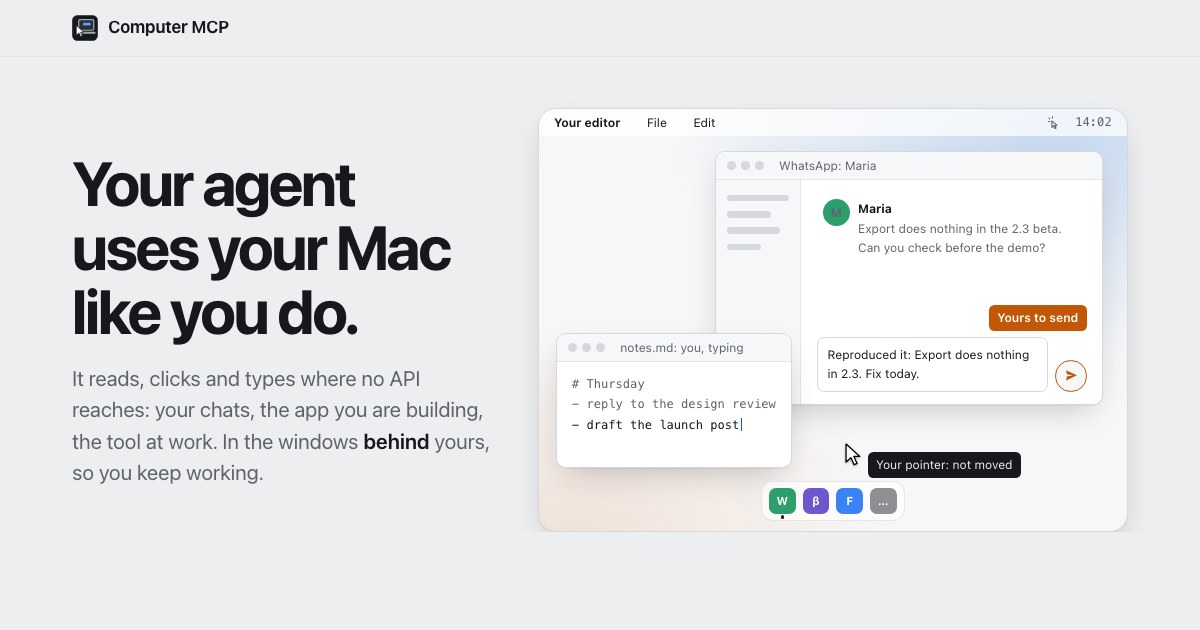
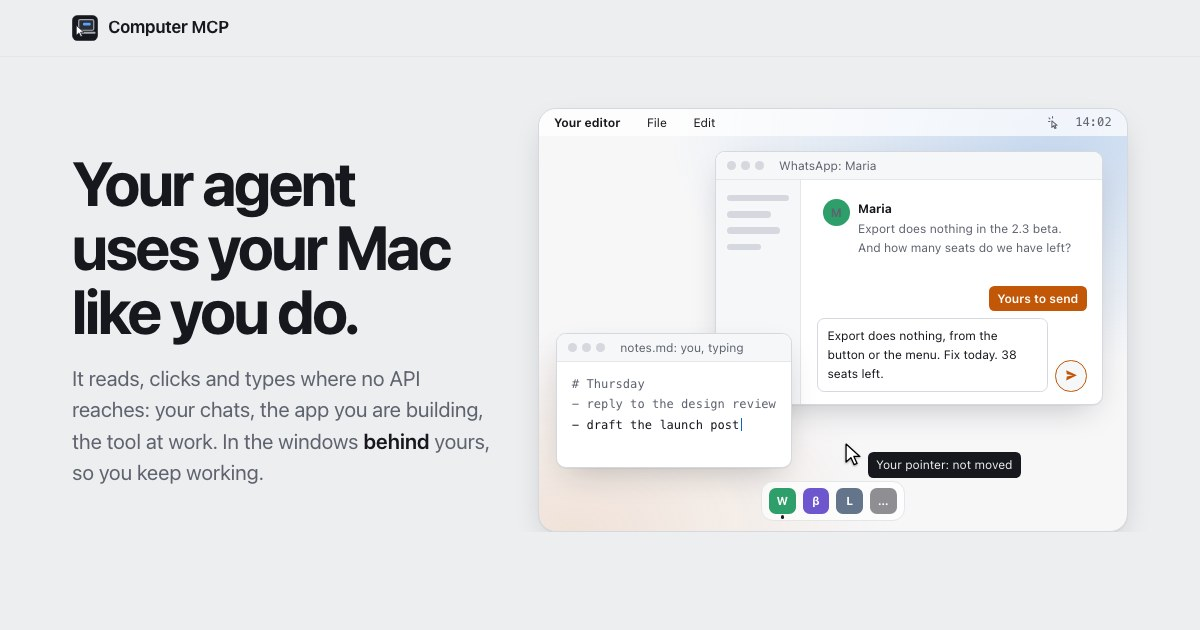
side: filmen viser nu alle fire use cases (32 s)
Gustav 2/10: brug flere af vores use cases i videoen.

Filmen går fra to til fire scener og 24 til 32 sekunder: Marias to
spørgsmål i WhatsApp, Export-knappen i din egen app, den samme handling
via appens menu (menus læser, menu vælger), og antal pladser tilbage i
et internt administrationsværktøj uden API. Svaret lægges som kladde i
WhatsApp, afsendelsen er din. Loggen har seks linjer.

Delingsbilledet er lavet om fra den nye hero. Sidens tjek er grønne.

Changed region(s): [[0.6783, 0.4524, 0.925, 0.6032], [0.7092, 0.3619, 0.8942, 0.4222], [0.6783, 0.754, 0.74, 0.8143]]

diff --git a/docs/index.html b/docs/index.html
@@ -36,7 +36,7 @@
   --sans:system-ui,-apple-system,BlinkMacSystemFont,"Segoe UI",Helvetica,Arial,sans-serif;
   --mono:ui-monospace,"SF Mono",SFMono-Regular,Menlo,Consolas,"Liberation Mono",monospace;
   --ease-out:cubic-bezier(.23,1,.32,1);
-  --film:24s;
+  --film:32s;
   color-scheme:light;
 }
 @media (prefers-color-scheme:dark){
@@ -104,7 +104,7 @@ p,li,dd{text-wrap:pretty}
 .ghost svg{width:16px;height:16px;fill:currentColor}
 .small{font-size:15px;color:var(--muted);margin:16px 0 0}
 
-/* The film: a bug report in WhatsApp, checked in your own app, answered as a draft. All behind your window */
+/* The film: two questions in WhatsApp, answered from your own app, its menu and the tool at work. All behind your window */
 .film{margin:0;container-type:inline-size}
 #pause{position:absolute;opacity:0;pointer-events:none}
 .desk{position:relative;aspect-ratio:16/11.5;border-radius:18px;overflow:hidden;
@@ -151,7 +151,23 @@ p,li,dd{text-wrap:pretty}
 .doc b{display:block;color:var(--ink);font-weight:600}
 .doc i{display:block;height:.5em;border-radius:.3em;background:var(--rule-soft);margin-top:.65em}
 .doc i:nth-of-type(2){width:80%}.doc i:nth-of-type(3){width:60%}
-.note{display:inline-flex;margin-top:.9em;padding:.35em .75em;border-radius:.5em;background:var(--ink);color:var(--desk)}
+.notes{display:flex;flex-direction:column;align-items:flex-start;gap:.45em;margin-top:.9em}
+.note{display:inline-flex;padding:.3em .75em;border-radius:.5em;background:var(--ink);color:var(--desk)}
+/* What the agent reads from the menu bar: nothing opens on your screen */
+.menus{position:absolute;left:47%;top:23%;width:47%;z-index:4;background:var(--surface);border:1px solid var(--rule);border-radius:.7em;
+  box-shadow:0 18px 40px -14px rgba(0,0,0,.45);padding:.45em}
+.menus .h{margin:0;padding:.2em .5em .45em;font-family:var(--mono);font-size:.88em;color:var(--muted)}
+.menus p{margin:0;display:flex;justify-content:space-between;gap:1em;padding:.3em .5em;border-radius:.4em;color:var(--muted);white-space:nowrap}
+.menus p span:last-child{opacity:.7}
+/* The tool at work */
+.tabs{display:flex;gap:.3em;margin-bottom:.8em}
+.tabs span{padding:.25em .7em;border-radius:.3em;border:1px solid var(--rule);color:var(--muted);background:var(--surface-2)}
+.tabs .on{color:var(--ink);background:var(--surface);font-weight:600}
+.old{border:1px solid var(--rule);border-radius:.3em;overflow:hidden}
+.old .oh{margin:0;background:var(--surface-2);padding:.4em .7em;font-weight:600;color:var(--ink);border-bottom:1px solid var(--rule)}
+.old p{margin:0;display:flex;justify-content:space-between;padding:.42em .7em;border-bottom:1px solid var(--rule-soft);color:var(--muted)}
+.old p:last-child{border-bottom:0}
+.old p b{font-family:var(--mono);color:var(--ink);font-weight:600}
 /* the rest */
 .ptr{position:absolute;left:52%;top:79%;z-index:3;display:flex;align-items:flex-start;gap:.5em}
 .ptr svg{width:1.4em;height:auto;filter:drop-shadow(0 1px 1px rgba(0,0,0,.35))}
@@ -160,7 +176,7 @@ p,li,dd{text-wrap:pretty}
   background:color-mix(in srgb,var(--surface) 70%,transparent);border:1px solid var(--rule-soft)}
 .dock span{position:relative;width:2.3em;height:2.3em;border-radius:.6em;display:grid;place-items:center;font-weight:700;color:#fff;font-size:.95em}
 .dock span::after{content:"";position:absolute;bottom:-.4em;width:.3em;height:.3em;border-radius:50%;background:var(--ink);opacity:0}
-.d1{background:#2E9E6A}.d2{background:#6E56CF}.d3{background:#3B82F6}.d4{background:#8E8E93}
+.d1{background:#2E9E6A}.d2{background:#6E56CF}.d3{background:#64748B}.d4{background:#8E8E93}
 .logp{position:absolute;left:3.5%;right:3.5%;bottom:4%;z-index:5;background:var(--surface);border:1px solid var(--rule);
   border-radius:.8em;box-shadow:var(--win-shadow);padding:.8em 1em;font-family:var(--mono);font-size:.9em;color:var(--muted)}
 .logp p{margin:0;white-space:pre;overflow:hidden;text-overflow:ellipsis;line-height:1.65}
@@ -178,55 +194,61 @@ p,li,dd{text-wrap:pretty}
 .progress i{display:block;height:100%;background:var(--muted);transform-origin:left}
 
 /* Static frame (reduced motion): the reply waits in WhatsApp as a draft, sending is yours */
-.s2,.t2,.note,.logp,.ph{opacity:0}
+.s2,.s3,.t2,.t3,.note,.menus,.logp,.ph{opacity:0}
 .s1,.draft,.yours{opacity:1}
 .send{border-color:var(--orange);color:var(--orange)}
-.cap span.k4{opacity:1;position:static}
+.cap span.k5{opacity:1;position:static}
 .dock .d1::after{opacity:1}
 
 @media (prefers-reduced-motion:no-preference){
   .desk *, .cap span, .progress i, .dock span::after{animation-duration:var(--film);animation-iteration-count:infinite;animation-timing-function:linear;animation-fill-mode:both}
-  .t1,.s1{animation-name:wa} .t2,.s2{animation-name:app}
+  .t1,.s1{animation-name:wa} .t2,.s2{animation-name:app} .t3,.s3{animation-name:lic}
   .m1{animation-name:seen}
-  .x{animation-name:hunt} .flash{animation-name:flash} .note{animation-name:note}
+  .x{animation-name:hunt} .flash{animation-name:flash} .n1{animation-name:n1} .n2{animation-name:n2}
+  .menus{animation-name:menus} .mx{animation-name:pick} .seat{animation-name:seat}
   .ph{animation-name:ph} .draft{animation-name:draft} .send{animation-name:mine} .yours{animation-name:yours}
   .logp{animation-name:logp}
-  .l1{animation-name:l1}.l2{animation-name:l2}.l3{animation-name:l3}.l4{animation-name:l4}.l5{animation-name:l5}
-  .dock .d1::after{animation-name:dwa}.dock .d2::after{animation-name:dapp}
+  .l1{animation-name:l1}.l2{animation-name:l2}.l3{animation-name:l3}.l4{animation-name:l4}.l5{animation-name:l5}.l6{animation-name:l6}
+  .dock .d1::after{animation-name:wa}.dock .d2::after{animation-name:app}.dock .d3::after{animation-name:lic}
   .caret{animation-name:blink;animation-timing-function:steps(2,start);animation-duration:1s}
-  .cap span.k4{position:absolute}
-  .cap .k1{animation-name:k1}.cap .k2{animation-name:k2}.cap .k3{animation-name:k3}.cap .k4{animation-name:k4}.cap .k5{animation-name:k5}
+  .cap span.k5{position:absolute}
+  .cap .k1{animation-name:k1}.cap .k2{animation-name:k2}.cap .k3{animation-name:k3}.cap .k4{animation-name:k4}.cap .k5{animation-name:k5}.cap .k6{animation-name:k6}
   .progress i{animation-name:bar}
   #pause:checked ~ .desk *, #pause:checked ~ .desk .dock span::after, #pause:checked ~ .under .cap span, #pause:checked ~ .progress i{animation-play-state:paused}
 }
 @media (prefers-reduced-motion:reduce){ .ctl,.progress{display:none} .under{grid-template-columns:1fr} }
 
-/* One 24-second timeline, 1 s = 4.17%:
-   1 read WhatsApp 0-20  2 press Export in your app 20-40  3 look again 40-58  4 the draft 58-84  5 the log 84-100 */
-@keyframes wa{0%{opacity:0}1.5%,19%{opacity:1}20.5%,57%{opacity:0}58.5%,97%{opacity:1}99%,100%{opacity:0}}
-@keyframes app{0%,19%{opacity:0}20.5%,57%{opacity:1}58.5%,100%{opacity:0}}
-@keyframes seen{0%,5%{box-shadow:none;background:transparent}7%,18%{box-shadow:inset 0 0 0 .14em var(--blue);background:color-mix(in srgb,var(--blue) 8%,transparent)}20%,100%{box-shadow:none;background:transparent}}
-@keyframes hunt{0%,25%{box-shadow:0 0 0 0 transparent;transform:none}27%,31%{box-shadow:0 0 0 .18em var(--blue);transform:none}32.5%{box-shadow:0 0 0 .18em var(--blue);transform:scale(.92)}34.5%,100%{box-shadow:0 0 0 0 transparent;transform:none}}
-@keyframes flash{0%,40%{opacity:0}41%{opacity:.7}43.5%,100%{opacity:0}}
-@keyframes note{0%,43.5%{opacity:0;transform:translateY(.4em)}45%,100%{opacity:1;transform:none}}
-@keyframes ph{0%,61%{opacity:1}62%,100%{opacity:0}}
-@keyframes draft{0%,61.5%{opacity:0}62.5%,100%{opacity:1}}
-@keyframes mine{0%,65%{border-color:var(--rule);color:var(--muted)}66.5%,100%{border-color:var(--orange);color:var(--orange)}}
-@keyframes yours{0%,66%{opacity:0;transform:translateY(.4em)}67.5%,100%{opacity:1;transform:none}}
-@keyframes logp{0%,83.5%{opacity:0;transform:translateY(1em)}85.5%,97%{opacity:1;transform:none}99%,100%{opacity:0;transform:translateY(1em)}}
-@keyframes l1{0%,85.5%{opacity:0}86.5%,100%{opacity:1}}
-@keyframes l2{0%,87%{opacity:0}88%,100%{opacity:1}}
-@keyframes l3{0%,88.5%{opacity:0}89.5%,100%{opacity:1}}
-@keyframes l4{0%,90%{opacity:0}91%,100%{opacity:1}}
-@keyframes l5{0%,91.5%{opacity:0}92.5%,100%{opacity:1}}
-@keyframes dwa{0%{opacity:0}1.5%,19%{opacity:1}20.5%,57%{opacity:0}58.5%,97%{opacity:1}99%,100%{opacity:0}}
-@keyframes dapp{0%,19%{opacity:0}20.5%,57%{opacity:1}58.5%,100%{opacity:0}}
+/* One 32-second timeline, 1 s = 3.125%:
+   1 read WhatsApp 0-14  2 press Export 14-30  3 the menu 30-50  4 the tool at work 50-68  5 the draft 68-88  6 the log 88-100 */
+@keyframes wa{0%{opacity:0}1%,13%{opacity:1}14%,67%{opacity:0}68%,97.5%{opacity:1}99%,100%{opacity:0}}
+@keyframes app{0%,13%{opacity:0}14%,49%{opacity:1}50%,100%{opacity:0}}
+@keyframes lic{0%,49%{opacity:0}50%,67%{opacity:1}68%,100%{opacity:0}}
+@keyframes seen{0%,4%{box-shadow:none;background:transparent}5.5%,12.5%{box-shadow:inset 0 0 0 .14em var(--blue);background:color-mix(in srgb,var(--blue) 8%,transparent)}14%,100%{box-shadow:none;background:transparent}}
+@keyframes hunt{0%,17%{box-shadow:0 0 0 0 transparent;transform:none}18.5%,22%{box-shadow:0 0 0 .18em var(--blue);transform:none}23%{box-shadow:0 0 0 .18em var(--blue);transform:scale(.92)}24.5%,100%{box-shadow:0 0 0 0 transparent;transform:none}}
+@keyframes flash{0%,26%{opacity:0}26.8%{opacity:.7}28.5%,44.5%{opacity:0}45.3%{opacity:.7}47%,100%{opacity:0}}
+@keyframes n1{0%,28.5%{opacity:0;transform:translateY(.4em)}29.5%,100%{opacity:1;transform:none}}
+@keyframes n2{0%,47%{opacity:0;transform:translateY(.4em)}48%,100%{opacity:1;transform:none}}
+@keyframes menus{0%,31%{opacity:0;transform:translateY(.4em)}32.5%,44%{opacity:1;transform:none}45%,100%{opacity:0;transform:none}}
+@keyframes pick{0%,36.5%{background:transparent;color:var(--muted)}38%,40.5%{background:color-mix(in srgb,var(--blue) 14%,transparent);color:var(--ink)}41.5%,100%{background:var(--blue);color:#fff}}
+@keyframes seat{0%,55%{box-shadow:none;background:transparent}57%,66%{box-shadow:inset 0 0 0 .14em var(--blue);background:color-mix(in srgb,var(--blue) 8%,transparent)}67.5%,100%{box-shadow:none;background:transparent}}
+@keyframes ph{0%,72%{opacity:1}73%,100%{opacity:0}}
+@keyframes draft{0%,72.5%{opacity:0}73.5%,100%{opacity:1}}
+@keyframes mine{0%,76%{border-color:var(--rule);color:var(--muted)}77.5%,100%{border-color:var(--orange);color:var(--orange)}}
+@keyframes yours{0%,77%{opacity:0;transform:translateY(.4em)}78.5%,100%{opacity:1;transform:none}}
+@keyframes logp{0%,87.5%{opacity:0;transform:translateY(1em)}89%,97.5%{opacity:1;transform:none}99%,100%{opacity:0;transform:translateY(1em)}}
+@keyframes l1{0%,89.5%{opacity:0}90.5%,100%{opacity:1}}
+@keyframes l2{0%,90.5%{opacity:0}91.5%,100%{opacity:1}}
+@keyframes l3{0%,91.5%{opacity:0}92.5%,100%{opacity:1}}
+@keyframes l4{0%,92.5%{opacity:0}93.5%,100%{opacity:1}}
+@keyframes l5{0%,93.5%{opacity:0}94.5%,100%{opacity:1}}
+@keyframes l6{0%,94.5%{opacity:0}95.5%,100%{opacity:1}}
 @keyframes blink{to{opacity:0}}
-@keyframes k1{0%{opacity:0}1%,19%{opacity:1}20%,100%{opacity:0}}
-@keyframes k2{0%,20%{opacity:0}21%,39%{opacity:1}40%,100%{opacity:0}}
-@keyframes k3{0%,40%{opacity:0}41%,57%{opacity:1}58%,100%{opacity:0}}
-@keyframes k4{0%,58%{opacity:0}59%,82.5%{opacity:1}83.5%,100%{opacity:0}}
-@keyframes k5{0%,84%{opacity:0}85%,98.5%{opacity:1}99.5%,100%{opacity:0}}
+@keyframes k1{0%{opacity:0}1%,13%{opacity:1}14%,100%{opacity:0}}
+@keyframes k2{0%,14%{opacity:0}15%,29%{opacity:1}30%,100%{opacity:0}}
+@keyframes k3{0%,30%{opacity:0}31%,49%{opacity:1}50%,100%{opacity:0}}
+@keyframes k4{0%,50%{opacity:0}51%,67%{opacity:1}68%,100%{opacity:0}}
+@keyframes k5{0%,68%{opacity:0}69%,87%{opacity:1}88%,100%{opacity:0}}
+@keyframes k6{0%,88%{opacity:0}89%,98.5%{opacity:1}99.5%,100%{opacity:0}}
 @keyframes bar{from{transform:scaleX(0)}to{transform:scaleX(1)}}
 
 @media (max-width:640px){
@@ -238,6 +260,8 @@ p,li,dd{text-wrap:pretty}
   .ptr{left:auto;right:4%;top:60%;flex-direction:column;align-items:flex-end;gap:.2em}
   .tag{margin-top:.2em;white-space:normal;text-align:right;max-width:8.5em}
   .logp{bottom:3%}
+  .menus{left:8%;right:8%;width:auto;top:20%}
+  .tabs{display:none}
   .under{grid-template-columns:1fr}
   .ctl{justify-self:start}
   .cap{min-height:4.6em}
@@ -338,27 +362,43 @@ footer .right{margin-left:auto}
 
   <div class="film">
     <input type="checkbox" id="pause" aria-label="Pause the film">
-    <div class="desk" role="img" aria-label="A 24-second film. While you keep typing in your editor, the agent reads Maria’s WhatsApp message saying Export does nothing in the beta, opens the beta of your app behind your window, presses Export, looks again and sees that nothing changed, and leaves the reply in WhatsApp as a draft. Sending stays with you. Every step lands in a log.">
+    <div class="desk" role="img" aria-label="A 32-second film. While you keep typing in your editor, the agent reads Maria’s WhatsApp message: Export does nothing in the beta, and how many seats are left. Behind your window it presses Export in your app, tries File, Export as in the app’s menu, and sees that nothing changed either way. It reads the seats left in the internal admin tool, and leaves the reply in WhatsApp as a draft. Sending stays with you. Every step lands in a log.">
       <div class="mbar" aria-hidden="true"><b>Your editor</b><span>File</span><span>Edit</span>
         <span class="tray"><svg viewBox="0 0 24 24" aria-hidden="true"><path d="M9 9v10l2.7-2.6 1.9 4.2 1.8-.8-1.9-4.1H17z"/><path d="M6 6 4.5 4.5M10 4.6V2.5M6 10H3.9"/></svg><span>14:02</span></span></div>
 
       <div class="win back" aria-hidden="true">
         <div class="bar"><i></i><i></i><i></i>
-          <span class="t t1">WhatsApp: Maria</span><span class="t t2">Your app 2.3 beta</span></div>
+          <span class="t t1">WhatsApp: Maria</span><span class="t t2">Your app 2.3 beta</span><span class="t t3">Licences: internal admin</span></div>
         <div class="side"><i></i><i></i><i></i><i></i></div>
         <div class="body s1">
-          <div class="msg m1"><span class="av">M</span><div><b>Maria</b><span>Export does nothing in the 2.3 beta. Can you check before the demo?</span></div></div>
+          <div class="msg m1"><span class="av">M</span><div><b>Maria</b><span>Export does nothing in the 2.3 beta. And how many seats do we have left?</span></div></div>
           <div class="composer">
-            <div class="field"><span class="ph">Message</span><span class="draft">Reproduced it: Export does nothing in 2.3. Fix today.</span></div>
+            <div class="field"><span class="ph">Message</span><span class="draft">Export does nothing, from the button or the menu. Fix today. 38 seats left.</span></div>
             <span class="send"><svg viewBox="0 0 16 16" aria-hidden="true"><path d="M1.5 14.5 15 8 1.5 1.5l.8 5.2L10 8l-7.7 1.3z"/></svg><span class="yours">Yours to send</span></span>
           </div>
         </div>
         <div class="body s2">
           <div class="tb"><span>Import</span><span class="x">Export</span><span>Share</span></div>
           <div class="doc"><b>Q3 report</b><i></i><i></i><i></i></div>
-          <span class="note">No dialog, no file. Nothing changed.</span>
+          <div class="notes"><span class="note n1">Button: nothing changed.</span><span class="note n2">Menu: nothing changed.</span></div>
+        </div>
+        <div class="body s3">
+          <div class="tabs"><span>Users</span><span class="on">Seats</span><span>Billing</span></div>
+          <div class="old"><p class="oh">Seats</p>
+            <p><span>Plan</span><b>Team</b></p>
+            <p><span>Seats bought</span><b>50</b></p>
+            <p><span>In use</span><b>12</b></p>
+            <p class="seat"><span>Seats left</span><b>38</b></p></div>
         </div>
         <div class="flash"></div>
+      </div>
+
+      <div class="menus" aria-hidden="true">
+        <p class="h">menus: your app</p>
+        <p><span>File › New</span><span>⌘N</span></p>
+        <p class="mx"><span>File › Export as…</span><span>⇧⌘E</span></p>
+        <p><span>Edit › Copy</span><span>⌘C</span></p>
+        <p><span>Help › Report a bug</span><span></span></p>
       </div>
 
       <div class="win front" aria-hidden="true">
@@ -371,24 +411,26 @@ footer .right{margin-left:auto}
         <span class="tag">Your pointer: not moved</span>
       </div>
 
-      <div class="dock" aria-hidden="true"><span class="d1">W</span><span class="d2">β</span><span class="d3">F</span><span class="d4">…</span></div>
+      <div class="dock" aria-hidden="true"><span class="d1">W</span><span class="d2">β</span><span class="d3">L</span><span class="d4">…</span></div>
 
       <div class="logp" aria-hidden="true">
         <p class="l1"><b>find</b>        WhatsApp     message from Maria</p>
         <p class="l2"><b>press</b>       your app     Export</p>
-        <p class="l3"><b>screenshot</b>  your app     nothing changed</p>
-        <p class="l4"><b>set_value</b>   WhatsApp     reply, left as a draft</p>
-        <p class="l5">Your pointer did not move. Nothing was sent.</p>
+        <p class="l3"><b>menu</b>        your app     File › Export as…</p>
+        <p class="l4"><b>find</b>        Licences     seats left: 38</p>
+        <p class="l5"><b>set_value</b>   WhatsApp     reply, left as a draft</p>
+        <p class="l6">Your pointer did not move. Nothing was sent.</p>
       </div>
     </div>
     <div class="progress" aria-hidden="true"><i></i></div>
     <div class="under">
       <p class="cap" aria-hidden="true">
-        <span class="k1">Reads Maria’s message in WhatsApp. Your own chats have no API; the screen is the way in.</span>
-        <span class="k2">Opens the beta of your app behind your window and presses Export, the way a tester would.</span>
-        <span class="k3">Looks again with <code>screenshot</code>: no dialog, no file. The bug is real.</span>
-        <span class="k4">Leaves the reply in WhatsApp as a draft with <code>set_value</code>. Sending stays yours.</span>
-        <span class="k5"><code>audit</code>: every step, in a log you can read back.</span>
+        <span class="k1">Reads Maria’s two questions in WhatsApp. Your own chats have no API; the screen is the way in.</span>
+        <span class="k2">Opens your app’s beta behind your window and presses Export, the way a tester would.</span>
+        <span class="k3">Tries the menu too: <code>menus</code> reads File › Export as…, <code>menu</code> picks it. Nothing either way.</span>
+        <span class="k4">Finds the seats left in the internal admin tool. No API there either, but if VoiceOver can read it, so can the agent.</span>
+        <span class="k5">Leaves the reply in WhatsApp as a draft with <code>set_value</code>. Sending stays yours.</span>
+        <span class="k6"><code>audit</code>: every step, in a log you can read back.</span>
       </p>
       <label class="ctl" for="pause"><span class="pz">Pause</span><span class="play">Play</span></label>
     </div>
